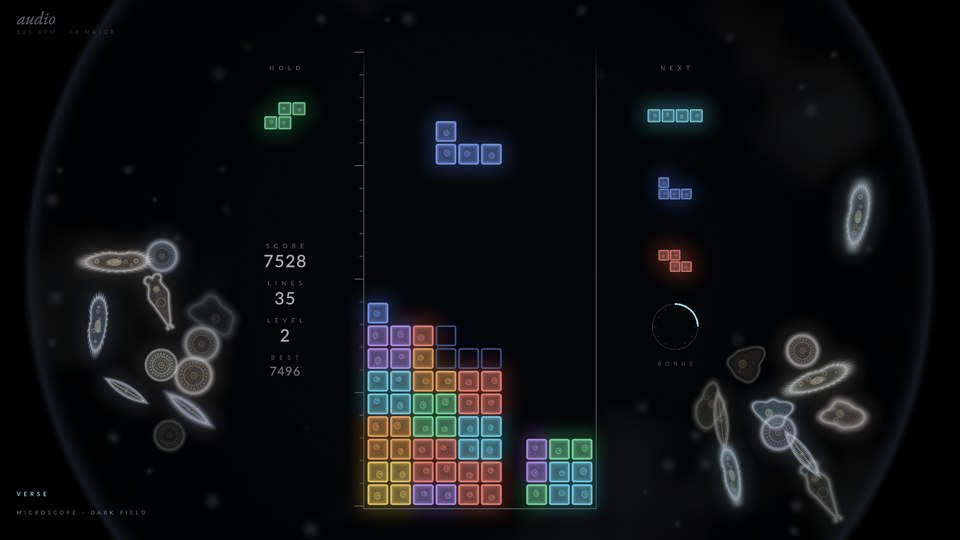
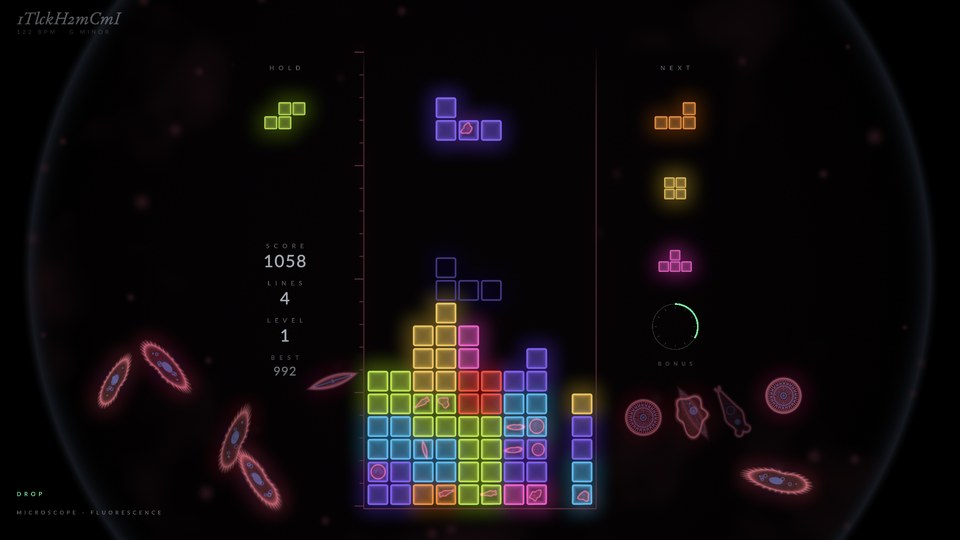
MICROSCOPE: simpler blocks, either empty or showing the organism they will release
On top of the restored micrograph look, only the blocks change ("Blocks
are too crowded with small things"):
- An empty cell is a calm stained cell: the same dye, glow, glassy wall
  and its fine line of light, an even tint a touch denser along the wall;
  no nucleus, granules, streaming, vacuoles or other small things. The
  previews are plain empty cells.
- A living cell (about one in five) shows its one organism larger
  (0.82 of the cell instead of 0.52) in a clear pool, as one bold shape:
  a thicker edge and fill, its fine details (cilia, striae, organelles,
  granules) faded out, turning gently, the wall breathing a little. It is
  exactly the organism the cell frees: once it has left the cell it grows
  its details back over two seconds. A Tetris' big one now keeps the kind
  its cell showed instead of turning into a volvox.

Claude-Session: https://claude.ai/code/session_01TRpCVe8qgHvBr5qwovmpX7

diff --git a/src/universes/microscope/shaders.hpp b/src/universes/microscope/shaders.hpp
@@ -107,7 +107,8 @@ void main() {
 )";
 
 // ---------------------------------------------------------------- the organisms (instanced)
-// a: x, y, size, angle. b: kind, seed, time, alpha. c: blur, cilia beat, tint, piece type. d: spin, dart, -, -.
+// a: x, y, size, angle. b: kind, seed, time, alpha. c: blur, cilia beat, tint, piece type. d: spin, simple
+// (in its cell: one bold shape, its fine details faded out), -, -.
 inline const char* ORG_VS = R"(#version 330 core
 layout(location = 0) in vec2 aPos;
 layout(location = 1) in vec4 aA;
@@ -294,7 +295,7 @@ void main() {
     // the shading
     float ew = AA + blur * 0.04;
     float inside = 1.0 - smoothstep(-ew, ew, d);
-    float rimw = 0.01 + blur * 0.05;
+    float rimw = 0.01 + blur * 0.05 + 0.012 * vD.y;
     float rim = max(exp(-abs(d) / rimw) - 0.01, 0.0) * (1.0 - smoothstep(0.05, 0.16, d));
     float innerL = inner < 8.0 ? (1.0 - smoothstep(-AA, AA, inner)) : 0.0;
     float sharp = 1.0 - 0.75 * blur;
@@ -302,6 +303,12 @@ void main() {
     org *= inside * (1.0 - 0.6 * blur);
     gran *= inside * sharp;
     innerL *= sharp;
+    // in its cell (and while it leaves it): one bold, readable shape, its fine details faded out
+    float simple = vD.y;
+    lines *= 1.0 - 0.8 * simple;
+    gran *= 1.0 - simple;
+    org *= 1.0 - 0.55 * simple;
+    innerL *= 1.0 - 0.5 * simple;
     float k = stainK(vWorld);
     int type = int(vC.w + 0.5);
     vec3 tint = pieceCol(type, k);
@@ -310,11 +317,12 @@ void main() {
     vec3 orgc = mix(mix(uOrgA[2], uOrgB[2], k), tint, vC.z * 0.5);
     if (kind == 5) { body = mix(body, mix(body, vec3(0.08, 0.5, 0.12), 0.5), 1.0 - uDark); }
     // dark-field: light scattered by the edges and the structures, on black
-    vec3 df = silver(rimc) * (rim * 0.55 + innerL * 0.35 + lines * 0.4) + silver(body) * inside * (fillK * 0.05 + gran * 0.16) +
+    vec3 df = silver(rimc) * (rim * (0.55 + 0.5 * simple) + innerL * 0.35 + lines * 0.4) +
+              silver(body) * inside * (fillK * 0.05 + gran * 0.16 + 0.2 * simple) +
               silver(orgc) * org * 0.32;
     df *= uGlow * (1.0 - 0.45 * blur);
     // bright-field: a stained body absorbing the light, its edge a darker line, a pale halo just outside
-    float A = inside * (0.22 * fillK + 0.4 * gran) + rim * 0.75 + innerL * 0.55 + lines * 0.6 + org * 0.7;
+    float A = inside * (0.22 * fillK + 0.4 * gran + 0.25 * simple) + rim * (0.75 + 0.25 * simple) + innerL * 0.55 + lines * 0.6 + org * 0.7;
     A = clamp(A * (1.0 - 0.45 * blur), 0.0, 0.9);
     vec3 dye = mix(body, orgc, clamp(org, 0.0, 1.0) * 0.6) * 0.75;
     float halo = exp(-max(d, 0.0) / (0.02 + blur * 0.05)) * step(0.0, d) * 0.06;
@@ -379,55 +387,18 @@ void main() {
         float dp = sdBox(p, (hb - wallW) * s - r2) - r2;
         proto = 1.0 - smoothstep(-aa, aa, dp);
     }
-    // the cell lives: everything inside drifts slowly and never stops, each cell on its own clock and with its own
-    // mood (some livelier for a while, some nearly still). The cytoplasm flows, the nucleus wanders and breathes out
-    // of round, granules stream at their own pace, a vacuole drifts. The wall breathes a little, never out of the grid.
-    // (only the cells with an organism inside live so; the others are still)
+    // A calm stained cell: an even tint (a touch denser along its wall), the glassy wall and its fine bright line; no
+    // nucleus, no granules. A cell with life in it is a clear pool around its organism (drawn over it), its wall
+    // breathing a little.
     float live = vC.w;
-    float ts = live * uTime * (0.8 + 0.4 * fract(seed * 5.1)) + seed * 97.0;
-    float act = live * uLife * (0.35 + 0.65 * smoothstep(0.25, 0.75, vnoise(vec2(ts * 0.06, seed * 17.0))));
-    if (kind == 0) {
+    if (kind == 0 && live > 0.5) {
+        float ts = uTime * (0.8 + 0.4 * fract(seed * 5.1)) + seed * 97.0;
         float wob = vnoise(vec2(atan(p.y, p.x) * 1.6 + seed * 9.0, ts * 0.18)) - 0.5;
-        d += (0.016 * (wob + 0.5) + 0.004 * (1.0 + sin(ts * 0.5))) * act;   // only ever inward: the gap stays
+        d += (0.012 * (wob + 0.5) + 0.003 * (1.0 + sin(ts * 0.5))) * uLife;   // only ever inward: the gap stays
         cov = 1.0 - smoothstep(-aa, aa, d);
         in_ = max(-d, 0.0);
         wall = 1.0 - smoothstep(wallW - aa, wallW + aa, in_);
     }
-    vec2 nc = vC.xy;
-    if (kind == 0 || kind == 3)
-        nc += 0.07 * act * (vec2(vnoise(vec2(ts * 0.11, seed * 3.0)), vnoise(vec2(seed * 5.0, ts * 0.09))) - 0.5) * 2.0;
-    vec2 flow = vec2(vnoise(p * 2.6 + vec2(ts * 0.07, seed)), vnoise(p * 2.6 + vec2(seed * 2.0, -ts * 0.06))) - 0.5;
-    vec2 gp = p + 0.12 * act * flow + vec2(ts * 0.012, -ts * 0.009) * act;
-    float nr = 0.105 + 0.025 * fract(seed * 7.13);
-    if (kind == 3) nc *= 1.0 - 0.4 * t;
-    vec2 nq = p - nc;
-    float na = atan(nq.y, nq.x);
-    nr *= 1.0 + act * (0.09 * sin(2.0 * na + ts * 0.37 + seed * 4.0) + 0.05 * sin(3.0 * na - ts * 0.29 + seed));
-    float nd = length(nq * vec2(1.0, 1.0 + 0.15 * sin(seed * 20.0))) - nr;
-    // (a cell with an organism inside is a clear pool of it: no nucleus in the way)
-    float nuc = (1.0 - smoothstep(-aa * 1.5, aa * 1.5, nd)) * proto * (1.0 - live);
-    float nedge = exp(-abs(nd) / 0.014) * proto * (1.0 - live);
-    float chrom = vnoise(nq * 38.0 + seed * 9.0 + vec2(ts * 0.05, 0.0));
-    float nucl = (1.0 - smoothstep(0.026 - aa, 0.026 + aa, length(nq - vec2(0.03, 0.025)))) * (1.0 - live);
-    float gr = vnoise(gp * 15.0 + seed * 41.0) * 0.6 + vnoise(gp * 33.0 + seed * 17.0) * 0.4;
-    // a vacuole: a clear, soft-edged pool drifting slowly through the cytoplasm
-    vec2 vc = 0.17 * vec2(sin(ts * 0.083 + seed * 6.0), cos(ts * 0.071 + seed * 3.0));
-    float vr = 0.075 + 0.02 * sin(ts * 0.21 + seed);
-    float vac = (1.0 - smoothstep(vr - 0.03, vr + 0.01, length(p - vc))) * proto * (0.5 + 0.5 * act);
-    // granules, each streaming at its own pace and distance, with a faint Brownian tremble
-    float grn = 0.0;
-    for (int j = 0; j < 6; j++) {
-        float fj = float(j);
-        float h = fract(seed * 17.0 + fj * 0.37);
-        float sp = (0.05 + 0.1 * fract(seed * 29.0 + fj * 0.53)) * (fract(seed * 13.7 + fj * 0.71) < 0.5 ? -1.0 : 1.0);
-        float ang = fj * 1.0472 + seed * 31.0 + ts * sp * act + 0.5 * sin(ts * 0.13 + fj * 2.0);
-        float rad = 0.25 + 0.07 * h + 0.04 * act * sin(ts * (0.17 + 0.1 * h) + fj * 1.7);
-        vec2 gc = rad * vec2(cos(ang), sin(ang));
-        gc += 0.008 * act * vec2(sin(ts * 3.1 + fj * 5.0 + seed), cos(ts * 2.7 + fj * 3.0));
-        float gs = 0.03 + 0.012 * fract(seed * 23.0 + fj * 0.61);
-        grn = max(grn, 1.0 - smoothstep(gs - aa, gs + aa, length(p - gc)));
-    }
-    grn *= proto * (1.0 - nuc);
     float flash = vC.z;
     if (kind == 1) {
         // the ghost: the wall alone, faint
@@ -437,30 +408,23 @@ void main() {
         frag = vec4(gb * a, a);
         return;
     }
-    // the glassy wall's light: a fine bright line just inside it, stronger toward the top left
     float inner = exp(-max(in_ - wallW, 0.0) / 0.025) * step(wallW, in_);
     float tl = smoothstep(-0.5, 0.5, -p.x * 0.6 + p.y * 0.8);
-    // bright-field: stained cytoplasm (denser along the wall), a darker wall, a granular nucleus
     vec3 field = uFieldA[0];
-    float dens = 0.8 + 0.17 * exp(-in_ / 0.14) + 0.06 * (gr - 0.5);
+    // the pool: clear in the middle, the stain fading in toward the wall
+    float pool = live * smoothstep(0.1, 0.24, in_);
+    // bright-field: the stain, a little denser along the wall, a darker wall
+    float dens = 0.8 + 0.15 * exp(-in_ / 0.14);
     vec3 bf = mix(field, c, dens) * mix(0.8, 1.0, proto);
-    bf = mix(bf, mix(field, c, 0.5), live * 0.45 * proto);
-    bf = mix(bf, mix(field, c, 0.45), vac * 0.55 * (1.0 - live));
-    bf = mix(bf, c * 0.42, grn * 0.75);
-    bf = mix(bf, c * (0.55 + 0.15 * chrom), nuc * 0.85);
-    bf = mix(bf, c * 0.3, nedge * 0.6 + nucl * nuc * 0.7);
+    bf = mix(bf, mix(field, c, 0.28), pool * 0.85 * proto);
     bf = mix(bf, vec3(1.0), inner * (0.1 + 0.25 * tl) * proto);
     bf = mix(bf, c * (0.4 - 0.12 * flash), wall);
-    // dark-field: the glassy wall glows, the cytoplasm a dim glow fading inward, the nucleus a soft lit body
-    vec3 g = silver(c);
-    vec3 df = g * (0.1 + 0.06 * gr) * proto;
-    df += g * exp(-in_ / 0.1) * 0.35 * proto;
-    df += g * inner * (0.15 + 0.3 * tl) * proto;
-    df *= 1.0 - 0.45 * vac * (1.0 - live) - 0.3 * live;
-    df += g * grn * 0.45;
-    df = mix(df, g * (0.22 + 0.12 * chrom), nuc * 0.85);
-    df += g * (nedge * 0.45 + nucl * nuc * 0.45);
-    df = mix(df, g * (1.2 + 0.6 * flash), wall);
+    // dark-field: the wall glows, the stain a soft glow fading inward (darker in a pool)
+    vec3 gcol = silver(c);
+    vec3 df = gcol * (0.11 + exp(-in_ / 0.1) * 0.35) * proto;
+    df *= 1.0 - 0.55 * pool;
+    df += gcol * inner * (0.15 + 0.3 * tl) * proto;
+    df = mix(df, gcol * (1.2 + 0.6 * flash), wall);
     df *= uGlow;
     vec3 col = mix(bf, df, uDark);
     float a = cov * vB.w;

diff --git a/src/universes/microscope/microscope.cpp b/src/universes/microscope/microscope.cpp
@@ -6,12 +6,12 @@
 // glass). Out-of-focus debris floats faintly in the medium; along the well run the eyepiece's reticle (two fine etched
 // lines, a floor and a scale of ticks, one per row).
 //
-// The pieces are plant tissue: each block one cell, a rounded cube of stained cytoplasm in its glassy wall, with its
-// nucleus. The seven types are seven dyes of the variant's stain. The falling piece is exactly a locked one, the ghost
+// The pieces are plant tissue: each block one calm cell, a rounded cube of evenly stained cytoplasm in its glassy wall,
+// nothing else inside. The seven types are seven dyes of the variant's stain. The falling piece is exactly a locked one, the ghost
 // a faint wall, the previews the same cells.
 //
-// About one cell in five has a small microorganism living inside it (a clear pool, its contents flowing slowly; the
-// other cells are still). The dish starts empty at the start of a song. Each cleared row bursts (its cells round off,
+// About one cell in five has a microorganism living inside it, shown large in a clear pool as one bold shape: the one
+// that cell frees (the other cells are empty and still). The dish starts empty at the start of a song. Each cleared row bursts (its cells round off,
 // their walls break open and their content disperses, gone in a third of a second) and frees its organisms: each
 // swims out of its own cell to the nearer side, growing on the way, and lives in the dish for the rest of the song: paramecia (a slipper fringed with beating
 // cilia), amoebas (a slow blob reaching out with pseudopods), pennate and centric diatoms (glass boats and discs of
@@ -119,7 +119,7 @@ constexpr float DIE_T = 2.2f;        // game over: a cell's plasmolysis
 constexpr int MAX_ORGS = 30;         // the dish's population; beyond it, the oldest fade away
 constexpr float ORG_FADE = 4.f;
 constexpr float LIFE_SHARE = 0.22f;   // the share of the cells with an organism living inside
-constexpr float DWELL_SIZE = 0.52f;   // an organism's size inside its cell
+constexpr float DWELL_SIZE = 0.82f;   // an organism's size inside its cell (one bold shape, in a clear pool)
 
 // The kinds of life: paramecium, amoeba, pennate diatom, centric diatom, rotifer, volvox.
 enum { K_PARA, K_AMOEBA, K_PENNATE, K_CENTRIC, K_ROTIFER, K_VOLVOX, K_COUNT };
@@ -573,7 +573,6 @@ void MicroscopeUniverse::onEvent(const GameEvent& ev, const Game& game) {
             for (size_t i = 0; i < lives.size(); i++) {
                 const auto* c = lives[i];
                 CellLook l = look_[c->y][c->x];
-                if (i == bigAt) l.life = K_VOLVOX;
                 const vec3 p = layout::cellPos((float)c->x, (float)c->y);
                 releaseFrom(l, p.x, p.y, c->type, 0.f, i == bigAt);
             }
@@ -1119,7 +1118,7 @@ void MicroscopeUniverse::render(const Frame& f, GLuint fbo) {
         const float anim = worldTime_ * (o.kind == K_AMOEBA ? 1.f : 0.8f + 0.5f * act) + o.seed * 100.f;
         (o.fromCell && o.age < 1.5f ? dwellInst : orgInst_)
             .push_back({{o.p.x, o.p.y, o.size * grow, ang}, {(float)o.kind, o.seed, anim, a},
-                        {blur, o.cilia, o.tint, (float)o.type}, {o.spin, 0.f, 0.f, 0.f}});
+                        {blur, o.cilia, o.tint, (float)o.type}, {o.spin, o.fromCell ? 1.f - smoothstepf(0.8f, 2.6f, o.age) : 0.f, 0.f, 0.f}});
     }
     if (!bare_) { // the world alone: no tissue, nothing bursting or dying
         for (const Lyse& l : lyses_) addCell(l.x, l.y, 0.5f, l.type, l.l, 2, saturate(l.t / LYSE_T), 1.f, 0.f);
@@ -1138,7 +1137,7 @@ void MicroscopeUniverse::render(const Frame& f, GLuint fbo) {
             const float ang = o.kind == K_CENTRIC || o.kind == K_VOLVOX ? 0.f : o.ang;
             const float anim = worldTime_ * (o.kind == K_AMOEBA ? 1.f : 0.8f + 0.5f * act) + o.seed * 100.f;
             dwellInst.push_back({{o.p.x, o.p.y, o.size, ang}, {(float)o.kind, o.seed, anim, alpha * (1.f - bridgeK)},
-                                 {0.f, 0.15f + 0.3f * wm + 0.6f * kickEnv_, o.tint, (float)o.type}, {o.spin, 0.f, 0.f, 0.f}});
+                                 {0.f, 0.15f + 0.3f * wm + 0.6f * kickEnv_, o.tint, (float)o.type}, {o.spin, 1.f, 0.f, 0.f}});
         };
         if (overT_ < 0.f)
             for (int y = Game::HIDDEN; y < Game::H; y++)

diff --git a/docs/universes.md b/docs/universes.md
@@ -259,7 +259,7 @@ Left out of the default build for now (`-DZENTRIS_DISABLED_UNIVERSES=""` builds 
 
 ![MICROSCOPE](universes/microscope.jpg)
 
-A Petri dish seen through the eyepiece of a microscope (code in `src/universes/microscope/`). The round field of view sits on black, as wide as the screen allows (its edge soft with a faint colored fringe, the corners' lettering on the black around it). Bright-field variants light the field evenly in a pale, neutral tone and show everything stained and absorbing light; dark-field ones leave it black and show only the light scattered by the edges of what is in it (glowing walls, cilia, glass), with a soft glow. A few out-of-focus motes and debris float faintly in the medium, never behind the well or the HUD. The well is the eyepiece's reticle: two fine etched lines, a floor, and a scale of ticks along its left side, one per row, longer every five. The pieces are plant tissue: each block one cell, a rounded cube of stained cytoplasm (denser along its wall, finely granular) in a glassy wall with a fine bright line of light inside it, and an off-center granular nucleus with its nucleolus; in dark-field the wall glows, the cytoplasm a dim glow fading inward. The seven types are seven dyes of the variant's stain. The falling piece is exactly a locked one, the ghost a faint wall, the previews the same cells. **The dish fills with life over the song**: it is empty when a song starts; each cleared row bursts (its cells round off, their walls break open and their content disperses, gone in a third of a second, at the real speed even in slow motion) and frees the microorganisms living in it: about one cell in five holds a small one, turning slowly in a clear pool of cytoplasm (no nucleus) while the cell's contents flow, its wall breathing a little; the other cells are still. When the row clears, each one swims straight out of its own cell toward the nearer side, growing to its full size on the way, crisp and in plain view, then drifts to its depth and lives at a home on that side for the rest of the song (a row with no life in it still frees one, from one of its cells): paramecia (a slipper with its oral groove, its nucleus and vacuoles, fringed with cilia beating in waves), amoebas (a slow blob reaching out with pseudopods, granules streaming), pennate diatoms (glass boats of fine striae with their raphe, gliding back and forth), centric diatoms (glass discs of radial striae, turning slowly), rotifers (a telescoping body on a forked foot, two wheels of cilia on its head, its jaws working) and volvox colonies (rolling spheres of tiny cells with daughter colonies inside; a Tetris frees a big one with a swell of light). They wander apart from each other, steer clear of the well, the HUD's columns and the corners' lettering (only faint while they cross them, newly born), each at its own depth: the focal plane drifts and refocuses at each new section, so some are soft and out of focus. Beyond 22 the oldest fade away; a new song rinses the dish. Calm: a still dish, soft focus, slow life; mid: the cilia beat on the beat grid (every two beats) and the swimmers wake up; peak: brighter light, crisp focus, lively swimmers, the kicks flicking the cilia and making the paramecia dart, each bar turning a few swimmers or reversing a diatom. **The drop changes the stain**: the variant's second staining palette soaks unevenly into the whole dish (field, tissue and life), with one swell of light and a refocus; it is rinsed out slowly after the peak. A hard drop pushes a little fine debris out from under the piece. Slow motion switches the illumination to a silver dark-field, the stains drained, time stretched. Game over kills the tissue from the top: each cell's protoplast shrinks away from its wall (plasmolysis), its stain drains to grey and it fades. It leaves and enters with the dish going out of focus and fading to the bridge, the stack in its ink. Six stains: DARK FIELD (cool pastel cells, silver life; drop: a fluorescent label), FLUORESCENCE (GFP, DAPI, mCherry... on black; drop: a rhodamine channel), POLARIZED (interference colors on black; drop: the next order of colors), METHYLENE BLUE (bright-field with a safranin counterstain; drop: eosin), H&E (hematoxylin and eosin; drop: a Gram stain) and MALACHITE (malachite green and safranin; drop: methylene blue), darker songs in dark-field, brighter ones in bright-field, then the key, mode, dynamics and air (`--universe "microscope:h&e"`). Cost: one full-screen pass for the field, the life as one instanced quad per organism (signed distances per kind), the pieces one instanced quad per cell, a quarter-resolution glow in dark-field. The HUD ink is dark in a pale field and pale on black, per pixel; the bonus gauge is a fine ring with a scale of ticks like a field stop, charged in the accent. Its fonts are Lato Regular (labels, numbers) and EB Garamond Italic (the song, like a species' name; the notices) (SIL Open Font License, `src/universes/microscope/OFL-Lato.txt`, `src/universes/microscope/OFL-EBGaramond.txt`).
+A Petri dish seen through the eyepiece of a microscope (code in `src/universes/microscope/`). The round field of view sits on black, as wide as the screen allows (its edge soft with a faint colored fringe, the corners' lettering on the black around it). Bright-field variants light the field evenly in a pale, neutral tone and show everything stained and absorbing light; dark-field ones leave it black and show only the light scattered by the edges of what is in it (glowing walls, cilia, glass), with a soft glow. A few out-of-focus motes and debris float faintly in the medium, never behind the well or the HUD. The well is the eyepiece's reticle: two fine etched lines, a floor, and a scale of ticks along its left side, one per row, longer every five. The pieces are plant tissue: each block one calm cell, a rounded cube of evenly stained cytoplasm (a touch denser along its wall) in a glassy wall with a fine bright line of light inside it, and nothing else inside, so the board reads at a glance; in dark-field the wall glows, the cytoplasm a dim glow fading inward. The previews are plain empty cells. The seven types are seven dyes of the variant's stain. The falling piece is exactly a locked one, the ghost a faint wall, the previews the same cells. **The dish fills with life over the song**: it is empty when a song starts; each cleared row bursts (its cells round off, their walls break open and their content disperses, gone in a third of a second, at the real speed even in slow motion) and frees the microorganisms living in it: about one cell in five holds one, shown large and clear in a pool of cytoplasm as one bold shape (its fine details faded out until it has left the cell), turning gently, the wall breathing a little: exactly the organism that cell frees, so each row shows what it will release; the other cells are empty and still. When the row clears, each one swims straight out of its own cell toward the nearer side, growing to its full size on the way, crisp and in plain view, then drifts to its depth and lives at a home on that side for the rest of the song (a row with no life in it still frees one, from one of its cells): paramecia (a slipper with its oral groove, its nucleus and vacuoles, fringed with cilia beating in waves), amoebas (a slow blob reaching out with pseudopods, granules streaming), pennate diatoms (glass boats of fine striae with their raphe, gliding back and forth), centric diatoms (glass discs of radial striae, turning slowly), rotifers (a telescoping body on a forked foot, two wheels of cilia on its head, its jaws working) and volvox colonies (rolling spheres of tiny cells with daughter colonies inside); a Tetris frees one of them big, keeping the kind its cell showed, with a swell of light. They wander apart from each other, steer clear of the well, the HUD's columns and the corners' lettering (only faint while they cross them, newly born), each at its own depth: the focal plane drifts and refocuses at each new section, so some are soft and out of focus. Beyond 22 the oldest fade away; a new song rinses the dish. Calm: a still dish, soft focus, slow life; mid: the cilia beat on the beat grid (every two beats) and the swimmers wake up; peak: brighter light, crisp focus, lively swimmers, the kicks flicking the cilia and making the paramecia dart, each bar turning a few swimmers or reversing a diatom. **The drop changes the stain**: the variant's second staining palette soaks unevenly into the whole dish (field, tissue and life), with one swell of light and a refocus; it is rinsed out slowly after the peak. A hard drop pushes a little fine debris out from under the piece. Slow motion switches the illumination to a silver dark-field, the stains drained, time stretched. Game over kills the tissue from the top: each cell's protoplast shrinks away from its wall (plasmolysis), its stain drains to grey and it fades. It leaves and enters with the dish going out of focus and fading to the bridge, the stack in its ink. Six stains: DARK FIELD (cool pastel cells, silver life; drop: a fluorescent label), FLUORESCENCE (GFP, DAPI, mCherry... on black; drop: a rhodamine channel), POLARIZED (interference colors on black; drop: the next order of colors), METHYLENE BLUE (bright-field with a safranin counterstain; drop: eosin), H&E (hematoxylin and eosin; drop: a Gram stain) and MALACHITE (malachite green and safranin; drop: methylene blue), darker songs in dark-field, brighter ones in bright-field, then the key, mode, dynamics and air (`--universe "microscope:h&e"`). Cost: one full-screen pass for the field, the life as one instanced quad per organism (signed distances per kind), the pieces one instanced quad per cell, a quarter-resolution glow in dark-field. The HUD ink is dark in a pale field and pale on black, per pixel; the bonus gauge is a fine ring with a scale of ticks like a field stop, charged in the accent. Its fonts are Lato Regular (labels, numbers) and EB Garamond Italic (the song, like a species' name; the notices) (SIL Open Font License, `src/universes/microscope/OFL-Lato.txt`, `src/universes/microscope/OFL-EBGaramond.txt`).
 
 ## SONAR
 
